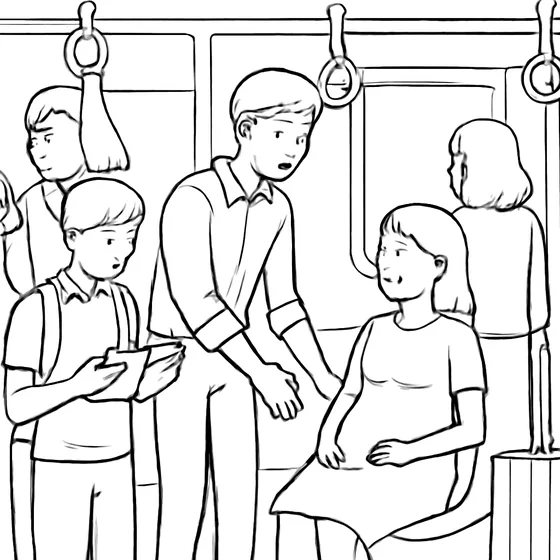
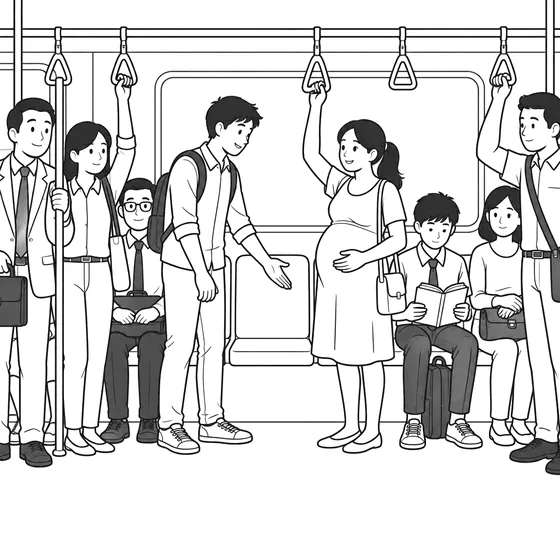
GEPT free Test A: 22 redrawn pictures + 中高級 speaking model answer matches its picture
Picture audit 2026-11-14 (three independent reviews) found Test A pictures that
contradicted their questions (shoes not under the bed, no toothbrush, a blank board,
a dog that changed breed between story frames, the 中高級 train picture not crowded).
Redrawn in the bank (gpt-image-2.5-sunburst); only the picture files and the one
model-answer sentence change here. The pages were NOT regenerated with
build_gept_pages.py: that would drop the /gept/ hero video added 11-10.

diff --git a/gept-high-intermediate-speaking-practice/index.html b/gept-high-intermediate-speaking-practice/index.html
@@ -39,7 +39,7 @@
 <script type="application/ld+json">{"@context":"https://schema.org","@type":"FAQPage","@id":"https://americanenglish.com.tw/gept-high-intermediate-speaking-practice/#faq","url":"https://americanenglish.com.tw/gept-high-intermediate-speaking-practice/","inLanguage":"zh-Hant-TW","isPartOf":{"@id":"https://americanenglish.com.tw/#website"},"mainEntity":[{"@type":"Question","name":"英檢中高級口說怎麼考？","acceptedAnswer":{"@type":"Answer","text":"在語言教室戴耳機、對著麥克風錄音，不是和考官面對面。全民英檢中高級口說約 15 分鐘，共 3 個部分：回答問題・看圖敘述・申述。聽的題目每題只播一次，不會印在試卷上。"}},{"@type":"Question","name":"英檢中高級口說幾分通過？","acceptedAnswer":{"@type":"Answer","text":"口說 80 分通過（滿分 100 分）。每位考生的錄音由兩位受過訓練的評分老師以 0–5 級分評定，再換算成百分制。"}},{"@type":"Question","name":"口說沒過、寫作過了，要全部重考嗎？","acceptedAnswer":{"@type":"Answer","text":"不用。第一次報考複試必須同時考寫作和口說；通過其中一項後，下次只需要報考沒通過的那一項，但要在初試測驗日起 2 年內。"}}]}</script>
 <script type="application/ld+json">{"@context":"https://schema.org","@type":"WebSite","@id":"https://americanenglish.com.tw/#website","url":"https://americanenglish.com.tw/","name":"American English 埃森美語","alternateName":["埃森美語","埃森美語 American English"],"inLanguage":"zh-Hant-TW","publisher":{"@id":"https://americanenglish.com.tw/#organization"}}</script>
 <script type="application/ld+json">{"@context":"https://schema.org","@type":["EducationalOrganization","LocalBusiness"],"@id":"https://americanenglish.com.tw/#organization","name":"埃森美語 American English","alternateName":["埃森美語","American English 埃森美語","American English","埃森美語 - American English Institute"],"legalName":"私立埃森美語文理短期補習班","taxID":"61476523","description":"板橋中正路在地深耕的美籍外師英文補習班，提供 100% 美籍持證教師、每班 12 人小班制的兒童美語與國中英文課程。","url":"https://americanenglish.com.tw/","telephone":"+886-928-067-772","image":["https://americanenglish.com.tw/assets/img/american-english-banqiao-logo.jpg","https://americanenglish.com.tw/assets/img/banqiao-small-class-english-classroom.webp","https://americanenglish.com.tw/assets/img/banqiao-kids-english-class.webp","https://americanenglish.com.tw/assets/img/certified-american-teacher-banqiao.webp","https://americanenglish.com.tw/assets/img/kids-confident-english-speaking.webp"],"logo":"https://americanenglish.com.tw/assets/img/american-english-banqiao-logo.jpg","priceRange":"$$","address":{"@type":"PostalAddress","streetAddress":"中正路89巷4號1樓","addressLocality":"板橋區","addressRegion":"新北市","postalCode":"220","addressCountry":"TW"},"geo":{"@type":"GeoCoordinates","latitude":25.0145617,"longitude":121.4560468},"areaServed":{"@type":"AdministrativeArea","name":"板橋區","containedInPlace":{"@type":"AdministrativeArea","name":"新北市"}},"openingHoursSpecification":[{"@type":"OpeningHoursSpecification","dayOfWeek":["Monday","Tuesday","Wednesday","Thursday","Friday"],"opens":"15:00","closes":"20:00"},{"@type":"OpeningHoursSpecification","dayOfWeek":"Saturday","opens":"10:00","closes":"19:00"}],"sameAs":["https://www.google.com/maps?cid=11837760024257631170","https://lin.ee/W9J8TuQ","https://www.facebook.com/profile.php?id=61576014571186"],"hasMap":"https://www.google.com/maps?cid=11837760024257631170","founder":{"@type":"Person","@id":"https://americanenglish.com.tw/#christopher","name":"Christopher","url":"https://americanenglish.com.tw/certified-american-teacher-banqiao/"},"knowsLanguage":["en-US","zh-TW"],"knowsAbout":["兒童美語","國中英文","美籍外師英語教學","Phonics 自然發音","劍橋兒童英檢 (Cambridge YLE)","GEPT 全民英檢","國中教育會考英文","英語會話與口說","板橋英文補習班"],"contactPoint":{"@type":"ContactPoint","contactType":"customer service","telephone":"+886-928-067-772","url":"https://lin.ee/W9J8TuQ","availableLanguage":["zh-TW","en"]}}</script>
-<script type="application/ld+json">{"@context":"https://schema.org","@type":"WebPage","@id":"https://americanenglish.com.tw/gept-high-intermediate-speaking-practice/#webpage","url":"https://americanenglish.com.tw/gept-high-intermediate-speaking-practice/","name":"英檢中高級口說題目：回答問題・看圖敘述・申述","description":"全民英檢中高級複試口說免費線上練習：回答問題・看圖敘述・申述，共 10 題原創題目，附美式發音音檔、參考回答與答題提示，每題可以直接錄下自己的回答來比較。","inLanguage":"zh-Hant-TW","primaryImageOfPage":{"@type":"ImageObject","url":"https://americanenglish.com.tw/assets/img/blog/gept-speaking-test-interview-practice.webp"},"datePublished":"2026-09-30","dateModified":"2026-10-11","author":{"@id":"https://americanenglish.com.tw/#organization"},"publisher":{"@id":"https://americanenglish.com.tw/#organization"},"isPartOf":{"@id":"https://americanenglish.com.tw/#website"},"hasPart":{"@id":"https://americanenglish.com.tw/gept-high-intermediate-speaking-practice/#faq"}}</script>
+<script type="application/ld+json">{"@context":"https://schema.org","@type":"WebPage","@id":"https://americanenglish.com.tw/gept-high-intermediate-speaking-practice/#webpage","url":"https://americanenglish.com.tw/gept-high-intermediate-speaking-practice/","name":"英檢中高級口說題目：回答問題・看圖敘述・申述","description":"全民英檢中高級複試口說免費線上練習：回答問題・看圖敘述・申述，共 10 題原創題目，附美式發音音檔、參考回答與答題提示，每題可以直接錄下自己的回答來比較。","inLanguage":"zh-Hant-TW","primaryImageOfPage":{"@type":"ImageObject","url":"https://americanenglish.com.tw/assets/img/blog/gept-speaking-test-interview-practice.webp"},"datePublished":"2026-09-30","dateModified":"2026-11-15","author":{"@id":"https://americanenglish.com.tw/#organization"},"publisher":{"@id":"https://americanenglish.com.tw/#organization"},"isPartOf":{"@id":"https://americanenglish.com.tw/#website"},"hasPart":{"@id":"https://americanenglish.com.tw/gept-high-intermediate-speaking-practice/#faq"}}</script>
 <!-- AE:SEO-LD end -->
 <!-- AE:GTM start -->
 <script>(function(){window.dataLayer=window.dataLayer||[];function gtag(){dataLayer.push(arguments);}window.gtag=gtag;gtag('js',new Date());gtag('config','G-CH7TGR171G');if(!window.fbq){var n=window.fbq=function(){n.callMethod?n.callMethod.apply(n,arguments):n.queue.push(arguments)};window._fbq=n;n.push=n;n.loaded=!0;n.version='2.0';n.queue=[];}fbq('init','1023907773471013');fbq('track','PageView');var loaded=0,load=function(){if(loaded)return;loaded=1;var s=document.createElement('script');s.async=1;s.src='https://www.googletagmanager.com/gtag/js?id=G-CH7TGR171G';document.head.appendChild(s);var f=document.createElement('script');f.async=1;f.src='https://connect.facebook.net/en_US/fbevents.js';document.head.appendChild(f);};['pointerdown','keydown','touchstart','scroll'].forEach(function(e){addEventListener(e,load,{once:true,passive:true});});addEventListener('load',function(){setTimeout(load,2500);});})();</script>
@@ -268,7 +268,7 @@
 <h2 id="第二部分-看圖敘述30-秒思考15-分鐘描述除了描述還要推測probablymi" class="gx-sec">第二部分　看圖敘述<small>30 秒思考、1.5 分鐘描述。除了描述，還要『推測』（probably、might）並連結自己的經驗。</small></h2>
 <div class="gx-card prx-item"><span class="qh">1.</span><div class="gx-pic"><img src="/assets/img/pics/gept-hi-A-s2.webp" alt="看圖敘述的圖片" width="560" height="560" loading="lazy"></div><ul><li>Where is this, and what time of day might it be? 這是哪裡？可能是什麼時候？</li><li>What are the people doing? 圖中的人在做什麼？</li><li>Why do you think the young man is standing up? 你認為那位年輕人為什麼站起來？</li><li>Describe your own experience with crowded public transportation. 談談你搭乘擁擠大眾運輸的經驗。</li></ul><div class="gx-rec"><button type="button">🎙 錄下我的回答</button><audio controls hidden></audio></div>
 <button type="button" class="btn btn-outline" data-reveal style="margin-top:10px">看參考回答與提示</button>
-<div class="gx-reveal"><div class="gx-model"><b>參考回答：</b>This picture shows the inside of an MRT train, probably during the morning rush hour, because it's very crowded and most people are standing. In the middle, a young man is standing up to give his seat to a pregnant woman, which is a kind thing to do. Next to them, a student is reading—maybe he has a test later today. Behind them, other passengers are holding on to the hand straps, and nobody seems to have much space. I take the MRT to school every day, and it's often this crowded. I usually stand near the door so that I can get off quickly. Although it can be uncomfortable, I think most passengers in Taipei are polite, just like the young man in this picture.</div><p class="prx-note">💡 看圖敘述要『推測』，不只描述：probably、might、maybe 會讓回答更有深度。依引導問題的順序講，最後連結自己的經驗。</p></div></div>
+<div class="gx-reveal"><div class="gx-model"><b>參考回答：</b>This picture shows the inside of an MRT train, probably during the morning rush hour, because every seat is taken and most people are standing. In the middle, a young man is standing up to give his seat to a pregnant woman, which is a kind thing to do. Next to them, a student is reading—maybe he has a test later today. Around them, other passengers are standing and holding on to the hand straps or a pole. I take the MRT to school every day, and it's often this crowded. I usually stand near the door so that I can get off quickly. Although it can be uncomfortable, I think most passengers in Taipei are polite, just like the young man in this picture.</div><p class="prx-note">💡 看圖敘述要『推測』，不只描述：probably、might、maybe 會讓回答更有深度。依引導問題的順序講，最後連結自己的經驗。</p></div></div>
 <h2 id="第三部分-申述看一個議題15-分鐘準備可以寫筆記再用-15-分鐘發表看法結構立場" class="gx-sec">第三部分　申述<small>看一個議題，1.5 分鐘準備（可以寫筆記），再用 1.5 分鐘發表看法。結構：立場 → 兩個理由加例子 → 顧慮 → 結論。</small></h2>
 <div class="gx-card prx-item"><span class="qh">1.</span><div class="gx-read">Some people think that students should be required to learn a second foreign language in addition to English. Do you agree? Explain your opinion and give reasons.<br><small lang="zh-Hant">有人認為學生除了英文之外，應該被要求學習第二外語。你同意嗎？請說明你的看法並提出理由。</small></div><div class="gx-rec"><button type="button">🎙 錄下我的回答</button><audio controls hidden></audio></div>
 <button type="button" class="btn btn-outline" data-reveal style="margin-top:10px">看參考回答與提示</button>
@@ -403,7 +403,7 @@ if(document.readyState==='loading')document.addEventListener('DOMContentLoaded',
   </div>
 </section>
 <!-- AE:PAGEMETA start -->
-<div class="page-meta"><div class="wrap"><span>最後更新：<time datetime="2026-10-11">2026 年 10 月 11 日</time></span><span>內容製作：<a href="/certified-american-teacher-banqiao/">埃森美語 American English</a></span></div></div>
+<div class="page-meta"><div class="wrap"><span>最後更新：<time datetime="2026-11-15">2026 年 11 月 15 日</time></span><span>內容製作：<a href="/certified-american-teacher-banqiao/">埃森美語 American English</a></span></div></div>
 <!-- AE:PAGEMETA end -->
 </main>
 <!-- AE:FOOT start -->
